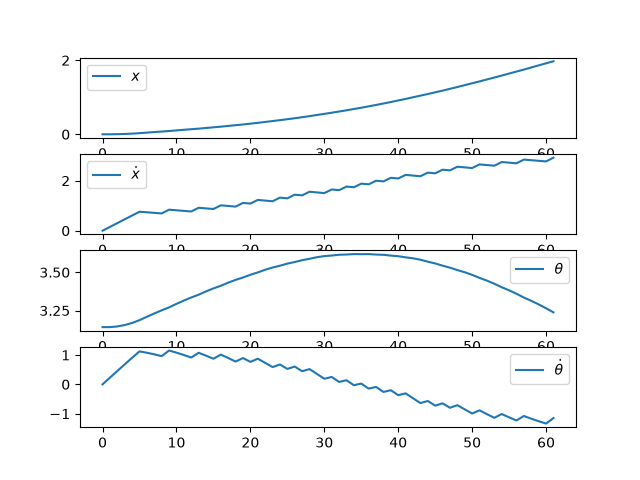
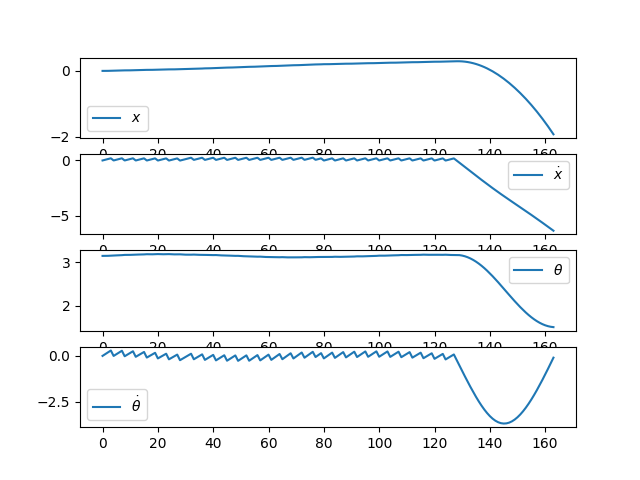
updated to use torch and training is changed to update only on a batch. Replay buffer has a limited size as well

diff --git a/envs/cart_pole.py b/envs/cart_pole.py
@@ -1,4 +1,5 @@
 import os
+import torch
 import numpy as np
 import matplotlib.pyplot as plt
 from envs.environment import Environment
@@ -11,9 +12,9 @@ class CartPole(Environment):
         self.state_dim = 4
 
         # We define the state as position, velocity, rotation, angular velocity x,x_d,\theta, \theta_d
-        self.init_state     = np.zeros((self.state_dim,1))
-        self.init_state[2]  = np.pi
-        self.terminal_state = np.zeros((self.state_dim,1))
+        self.init_state     = torch.zeros((self.state_dim,1))
+        self.init_state[2]  = torch.pi
+        self.terminal_state = torch.zeros((self.state_dim,1))
         # Cart-pole hyper-parameters
         self.M               = 1.0
         self.m               = 0.1
@@ -34,26 +35,26 @@ class CartPole(Environment):
         self.reached_goal  = False
 
     def step(self, state, action):
-        state_d = np.zeros((self.state_dim, 1))
+        state_d = torch.zeros((self.state_dim, 1))
         theta = state[2]
-        q     = (action + self.m*self.l*np.sin(theta)*state[3]**2)/(self.M + self.m)
-        theta_dd = (self.g*np.sin(theta)-q*np.cos(theta))/(self.l*(4/3-((self.m*np.cos(theta)**2)/(self.m+self.M))))
+        q     = (action + self.m*self.l*torch.sin(theta)*state[3]**2)/(self.M + self.m)
+        theta_dd = (self.g*torch.sin(theta)-q*torch.cos(theta))/(self.l*(4/3-((self.m*torch.cos(theta)**2)/(self.m+self.M))))
         state_d[0] = state[1]
-        state_d[1] = q - (self.m*self.l*np.cos(theta)*theta_dd)/(self.m+self.M)
+        state_d[1] = q - (self.m*self.l*torch.cos(theta)*theta_dd)/(self.m+self.M)
         state_d[2] = state[3]
         state_d[3] = theta_dd
         next_state = state + self.dt * state_d
         
         # To make sure we remain between [0, 360]
-        next_state[2] = next_state[2] % (2*np.pi)
+        next_state[2] = next_state[2] % (2*torch.pi)
         
         # We want to make the pole upright. It is negative, because we want to maximize
-        if next_state[2] < np.pi:
-            reward = -np.linalg.norm(next_state-self.terminal_state)
+        if next_state[2] < torch.pi:
+            reward = -torch.linalg.norm(next_state-self.terminal_state)
         else:
             diff_    = next_state-self.terminal_state
-            diff_[2] = 2*np.pi - next_state[2]
-            reward = -np.linalg.norm(diff_)
+            diff_[2] = 2*torch.pi - next_state[2]
+            reward = -torch.linalg.norm(diff_)
         if -reward < self.reach_threshold or next_state[0] > self.x_lim or next_state[0] < -self.x_lim:
             self.reached_goal = True
         return next_state, reward, self.reached_goal
@@ -79,7 +80,7 @@ class CartPole(Environment):
             fig,
             update_frame,
             frames=len(states),
-            interval=self.dt*1000,
+            interval=self.dt*10,
             blit=True
         )
 

diff --git a/experiments/dqn_cart_pole.py b/experiments/dqn_cart_pole.py
@@ -9,12 +9,13 @@ seed              = 0
 torch.manual_seed(seed)
 
 # DQN Hyper-Parameters
-n_episodes        = 20
-epsilon           = 0.7  # Probability for taking random actions
-action_dim        = 10   # Number of bins for the action space
-gamma             = 0.9  # Discount factor
-initial_data_size = 1000 # This is used to make sure, we train the network after dataset has some samples and not train only on few samples in the begining
-update_rate       = 500 # Number of steps used to copy the online network to the target network.
+n_episodes         = 100
+epsilon            = 0.7  # Probability for taking random actions
+action_dim         = 10   # Number of bins for the action space
+gamma              = 0.9  # Discount factor
+initial_data_size  = 1000 # This is used to make sure, we train the network after dataset has some samples and not train only on few samples in the begining
+update_rate        = 500 # Number of steps used to copy the online network to the target network.
+replay_buffer_size = 100000
 
 # Training Hyper-Parameters
 batch_size        = 64
@@ -41,7 +42,7 @@ training = Training(batch_size=batch_size,
                     target_network=Q_target,
                     online_network=Q_online)
 
-replay_buffer = ReplayBuffer()
+replay_buffer = ReplayBuffer(size=replay_buffer_size,state_dim=env.state_dim)
 
 step = 0
 
@@ -52,9 +53,9 @@ for episode in range(n_episodes):
 
     while True:
         state = torch.as_tensor(state,dtype=torch.float32,device=device)
-        action = agent.act(Q_online.predict(state).detach().numpy())
+        action = agent.act(Q_online.predict(state.squeeze(-1)).detach().numpy())
         next_state, reward, reached_goal = env.step(state, agent.actions[action])
-        replay_buffer.additem(state, next_state, reward, action)
+        replay_buffer.additem(state,next_state,reward,action)
 
         if reached_goal:
             break
@@ -62,7 +63,7 @@ for episode in range(n_episodes):
         step += 1
         state = next_state
         
-        if (len(replay_buffer) > initial_data_size): # We update the online network after collecting inital number of samples
+        if (step > initial_data_size): # We update the online network after collecting inital number of samples
             training.train(replay_buffer, copy_network=(step % update_rate))
 
 
@@ -73,7 +74,7 @@ state = env.current_state
 
 while True:
     state = torch.as_tensor(state,dtype=torch.float32,device=device)
-    action = agent.act_greedy(Q_target.predict(state).detach().numpy())
+    action = agent.act_greedy(Q_target.predict(state.squeeze(-1)).detach().numpy())
     next_state, reward, reached_goal = env.step(state, agent.actions[action])
     states_for_plotting.append(state.detach().numpy())
 

diff --git a/utils/training.py b/utils/training.py
@@ -1,7 +1,6 @@
 import torch
 import torch.nn as nn
 import torch.optim as optim
-from torch.utils.data import DataLoader
 
 class Training:
     def __init__(self, batch_size, lr, gamma, online_network, target_network, device='cpu', method='DQN'):
@@ -19,33 +18,27 @@ class Training:
         if copy_network == 0:
             self.target_network.load_state_dict(self.online_network.state_dict())
 
-        dataLoader = DataLoader(
-            replay_buffer,
-            batch_size=self.batch_size,
-            shuffle=True,
-            num_workers=0
-        )
         criterion = nn.MSELoss()
         optimizer = optim.Adam(self.online_network.parameters(), lr=self.lr)
 
         self.online_network.train()
         self.target_network.eval()
 
-        state, next_state, reward, action = next(iter(dataLoader))
+        state, next_state, reward, action = replay_buffer.getitem(self.batch_size)
+        
         optimizer.zero_grad()
         if self.method == 'DQN':
-           values, _ = torch.max(self.target_network.predict(next_state).squeeze(0),dim=1)
+           values, _ = torch.max(self.target_network.predict(next_state),dim=1)
            
         elif self.method == 'DDQN':
-           _, indices = torch.max(self.online_network.predict(next_state).squeeze(0),dim=1)
-           values = self.target_network.predict(next_state)[:,indices].squeeze(0)
+           _, indices = torch.max(self.online_network.predict(next_state),dim=1)
+           values = self.target_network.predict(next_state)[:,indices]
 
-        target = (reward + values*self.gamma).unsqueeze(1)
+        target = (reward.squeeze(-1) + values*self.gamma)
 
-        
-        state = torch.as_tensor(state.squeeze(-1),dtype=torch.float32,device=self.device)
-        output = self.online_network(state).gather(dim=1, index=action.unsqueeze(1))
-        loss = criterion(output, target)
+    
+        output = self.online_network(state).gather(dim=1, index=action.long())
+        loss = criterion(output.squeeze(-1), target)
 
         loss.backward()
         optimizer.step()

diff --git a/utils/replay_buffer.py b/utils/replay_buffer.py
@@ -1,22 +1,27 @@
-from torch.utils.data import Dataset
+import torch
 
-class ReplayBuffer(Dataset):
-    def __init__(self):
-        self.states      = []
-        self.next_states = []
-        self.rewards     = []
-        self.actions     = []
+class ReplayBuffer():
+    def __init__(self, state_dim, size):
+        self.state       = torch.zeros((size, state_dim))
+        self.next_state  = torch.zeros((size, state_dim))
+        self.reward      = torch.zeros((size, 1))
+        self.action      = torch.zeros((size, 1))
 
-    def __len__(self):
-        # Return number of samples
-        return len(self.actions)
+        self.idx = 0
+        self.size = size
 
-    def __getitem__(self, idx):
+    def getitem(self, batch_size):
         # Return one sample
-        return self.states[idx], self.next_states[idx], self.rewards[idx], self.actions[idx]
+        indices = torch.randint(0, self.size, (batch_size,))
+        return self.state[indices], self.next_state[indices], self.reward[indices], self.action[indices]
 
     def additem(self, state, next_state, reward, action):
-        self.states.append(state)
-        self.next_states.append(next_state)
-        self.rewards.append(reward)
-        self.actions.append(action)
+        self.state[self.idx]      = state.squeeze(-1)
+        self.next_state[self.idx] = next_state.squeeze(-1)
+        self.reward[self.idx]     = reward
+        self.action[self.idx]     = action
+
+        self.idx += 1
+
+        if self.idx > self.size:
+            self.idx = 0

diff --git a/estimators/mlp.py b/estimators/mlp.py
@@ -27,7 +27,6 @@ class MLP(nn.Module):
     def predict(self, x):
         device = next(self.parameters()).device
         x = torch.as_tensor(x, dtype=torch.float32, device=device)
-        x = x.unsqueeze(0).squeeze(-1)
 
         with torch.no_grad():
             return self(x)
